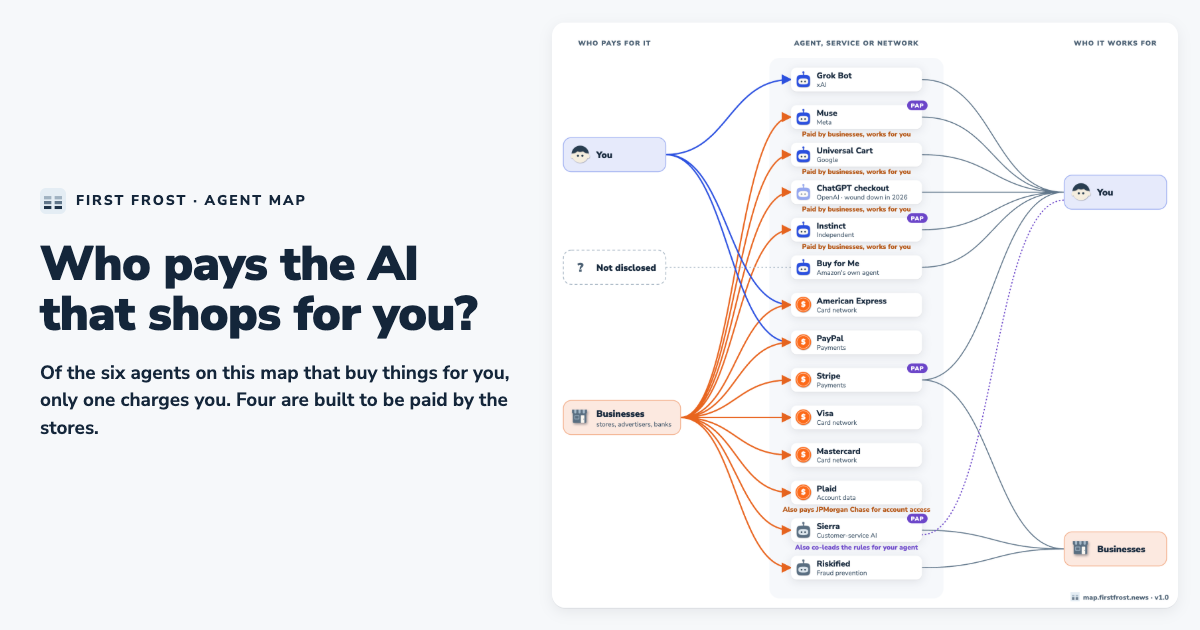
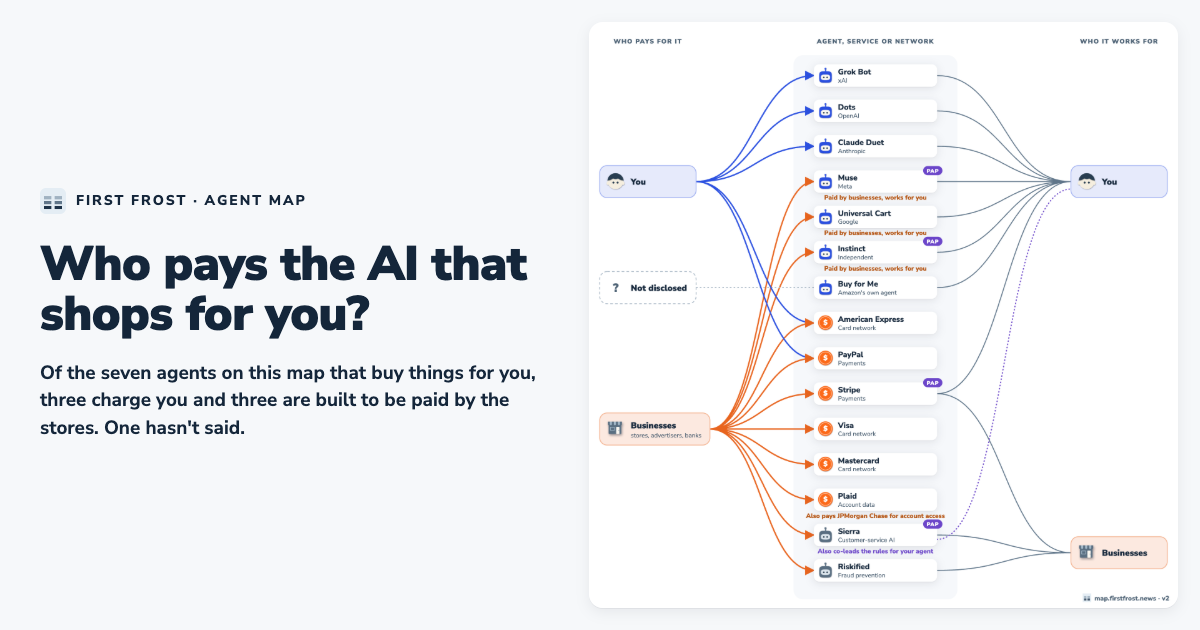
Agent map v2.0: add OpenAI's Dots and Claude Duet; ChatGPT checkout now sits under Dots as history

diff --git a/index.html b/index.html
@@ -3,23 +3,23 @@
 <head>
 <meta charset="utf-8">
 <meta name="viewport" content="width=device-width, initial-scale=1">
-<title>Who pays AI shopping agents? Muse, Grok and 4 more, mapped</title>
-<meta name="description" content="Only one of six AI shopping agents charges you: xAI's Grok Bot. Meta's Muse and three others are built to be paid by stores. Every line sourced.">
+<title>Who pays AI shopping agents? Muse, Dots, Grok and 4 more, mapped</title>
+<meta name="description" content="Three of seven AI shopping agents charge you: Grok Bot, OpenAI's Dots and Claude Duet. Meta's Muse and two others are built to be paid by stores. Every line sourced.">
 <meta property="og:type" content="website">
 <meta property="og:site_name" content="First Frost">
 <meta property="og:url" content="https://map.firstfrost.news/">
 <meta property="og:title" content="Who pays the AI that shops for you?">
-<meta property="og:description" content="Only one of six AI shopping agents charges you: xAI's Grok Bot. Meta's Muse and three others are built to be paid by stores. Every line sourced.">
+<meta property="og:description" content="Three of seven AI shopping agents charge you: Grok Bot, OpenAI's Dots and Claude Duet. Meta's Muse and two others are built to be paid by stores. Every line sourced.">
 <meta property="og:image" content="https://map.firstfrost.news/assets/og-card.png">
 <meta property="og:image:width" content="1200">
 <meta property="og:image:height" content="630">
-<meta property="og:image:alt" content="A map of six AI shopping agents and who pays each one: you, or the businesses they sell to.">
+<meta property="og:image:alt" content="A map of seven AI shopping agents and who pays each one: you, or the businesses they sell to.">
 <meta name="twitter:card" content="summary_large_image">
 <meta name="twitter:site" content="@firstfrostnews">
 <meta name="twitter:title" content="Who pays the AI that shops for you?">
-<meta name="twitter:description" content="Only one of six AI shopping agents charges you: xAI's Grok Bot. Meta's Muse and three others are built to be paid by stores. Every line sourced.">
+<meta name="twitter:description" content="Three of seven AI shopping agents charge you: Grok Bot, OpenAI's Dots and Claude Duet. Meta's Muse and two others are built to be paid by stores. Every line sourced.">
 <meta name="twitter:image" content="https://map.firstfrost.news/assets/og-card.png">
-<meta name="twitter:image:alt" content="A map of six AI shopping agents and who pays each one: you, or the businesses they sell to.">
+<meta name="twitter:image:alt" content="A map of seven AI shopping agents and who pays each one: you, or the businesses they sell to.">
 <link rel="icon" type="image/png" sizes="32x32" href="assets/mark-32.png">
 <link rel="icon" type="image/png" sizes="16x16" href="assets/mark-16.png">
 <link rel="apple-touch-icon" sizes="180x180" href="assets/mark-180.png">
@@ -293,7 +293,7 @@
 
   <section class="hero">
     <h1>Who pays the AI that shops for you?</h1>
-    <p class="claim">Of the six agents on this map that buy things for you, only one charges you. Four are built to be paid by the stores.</p>
+    <p class="claim">Of the seven agents on this map that buy things for you, three charge you and three are built to be paid by the stores. One hasn't said.</p>
     <p>Every line is a company's own words or a news report, quoted and linked. Five ways to draw the same facts. Pick any name to see the sentence behind it.</p>
   </section>
 
@@ -330,7 +330,7 @@
 <script>
 const ICON = { agent: 'assets/cast/agent.png', service: 'assets/cast/bot.png', rail: 'assets/cast/coin.png', door: 'assets/cast/door.png', store: 'assets/cast/store.png', platform: 'assets/cast/platform.png', bank: 'assets/cast/bank.png', you: 'assets/cast/person.png' };
 const iconOf = (e) => ICON[e.type === 'door' ? e.kind || 'door' : e.type];
-const ORDER = ['paid_by', 'terms_liability', 'partners_with', 'blocks', 'builds_own_agent', 'sells_detection', 'bot_contradicts_policy', 'status'];
+const ORDER = ['paid_by', 'terms_liability', 'partners_with', 'blocks', 'builds_own_agent', 'sells_detection', 'bot_contradicts_policy', 'status', 'before'];
 const KIND = { first_hand: "Company's own words", report: 'Press report', own_test: 'Our own test' };
 const SIDE = { businesses: 'businesses', you: 'you', both: 'both sides' };
 const PILL = { businesses: '<span class="pill biz">Businesses</span>', you: '<span class="pill you">You</span>', both: '<span class="pill both">Both</span>' };
@@ -555,9 +555,9 @@ function drawTurf() {
   txt(s, 616, 106, 'it names', 'regionsub', 'start');
   txt(s, 416, 72, 'IN BOTH', 'regionlabel', 'start');
   txt(s, 416, 90, 'Signed with both', 'regionsub', 'start');
-  region(s, 572, 368, 218, 108, 'ended', 'OPENAI', 'Checkout ended in 2026');
-  region(s, 16, 368, 344, 108, 'plain', 'NO CAMP YET', 'No signed deals we could find');
-  region(s, 376, 368, 180, 108, 'plain', 'NO DEALS YET', 'With any outside agent');
+  region(s, 16, 368, 432, 108, 'plain', 'NO CAMP YET', 'No signed deals we could find');
+  region(s, 464, 368, 136, 108, 'plain', 'NO DEALS YET', 'With outside agents');
+  region(s, 616, 368, 174, 108, 'camp', 'ANTHROPIC', 'Pays with Stripe, Shopify');
   region(s, 16, 492, 774, 176, 'plain', 'SOLD TO BUSINESSES · PAYMENTS AND DATA');
   region(s, 812, 44, 272, 230, 'wall');
   txt(s, 948, 76, 'WALL', 'regionlabel');
@@ -571,14 +571,14 @@ function drawTurf() {
     muse: [40, 122], shopify: [40, 210], bestbuy: [40, 262], gap: [40, 314], expedia: [222, 210], instacart: [222, 262], ticketmaster: [222, 314],
     walmart: [416, 210], wayfair: [416, 262], sephora: [416, 314],
     gcart: [616, 150], target: [616, 210],
-    chatgpt: [590, 442],
-    grok: [40, 442], instinct: [196, 442],
-    delta: [396, 442],
+    duet: [632, 442],
+    grok: [40, 442], dots: [176, 442], instinct: [290, 442],
+    delta: [480, 442],
     sierra: [36, 566], riskified: [226, 566], stripe: [416, 566], paypal: [606, 566],
     visa: [36, 622], mastercard: [226, 622], amex: [416, 622], plaid: [606, 622],
     amazon: [836, 150], buyforme: [836, 214], jpm: [836, 400],
   };
-  const opts = { chatgpt: { sub: 'OpenAI', faded: true }, buyforme: { sub: "Amazon's own agent" } };
+  const opts = { buyforme: { sub: "Amazon's own agent" } };
   Object.entries(P).forEach(([id, [x, y]]) => chip(nodeLayer, id, x, y, opts[id] || {}));
   // camps and walls carry this view at rest; a name's lines show only when you pick it
   drawEdges(edgeLayer, 'curve', () => true, 'curve');
@@ -608,7 +608,7 @@ function box(layer, id, x, y, cls, icon, label, sub) {
   AT[id] = { x, y, w };
 }
 function drawMoney() {
-  const rows = ['grok', 'muse', 'gcart', 'chatgpt', 'instinct', 'buyforme', 'amex', 'paypal', 'stripe', 'visa', 'mastercard', 'plaid', 'sierra', 'riskified'];
+  const rows = ['grok', 'dots', 'duet', 'muse', 'gcart', 'instinct', 'buyforme', 'amex', 'paypal', 'stripe', 'visa', 'mastercard', 'plaid', 'sierra', 'riskified'];
   const step = 66, H = 100 + (rows.length - 1) * step + 70;
   const s = newSvg(1100, H, 'Follow the money: who pays for each one, and who it works for');
   txt(s, 110, 40, 'WHO PAYS FOR IT', 'colhead');
@@ -616,16 +616,16 @@ function drawMoney() {
   txt(s, 990, 40, 'WHO IT WORKS FOR', 'colhead');
   const bandLayer = el('g', {}, s), edgeLayer = el('g', {}, s), nodeLayer = el('g', {}, s);
   el('rect', { x: 382, y: 62, width: 306, height: (rows.length - 1) * step + 92, rx: 18, class: 'lane' }, bandLayer);
-  box(nodeLayer, 'pay-you', 20, 100 + 2 * step, 'you', ICON.you, 'You');
-  box(nodeLayer, 'pay-none', 20, 100 + 5 * step, 'none', null, 'Not disclosed');
-  box(nodeLayer, 'pay-biz', 20, 100 + 9 * step, 'biz', ICON.store, 'Businesses', 'stores, advertisers, banks');
+  box(nodeLayer, 'pay-you', 20, 100 + 3 * step, 'you', ICON.you, 'You');
+  box(nodeLayer, 'pay-none', 20, 100 + 6 * step, 'none', null, 'Not disclosed');
+  box(nodeLayer, 'pay-biz', 20, 100 + 10 * step, 'biz', ICON.store, 'Businesses', 'stores, advertisers, banks');
   box(nodeLayer, 'for-you', 900, 100 + 3 * step, 'you', ICON.you, 'You');
-  box(nodeLayer, 'for-biz', 900, 100 + 12.5 * step, 'biz', ICON.store, 'Businesses');
+  box(nodeLayer, 'for-biz', 900, 100 + 13.5 * step, 'biz', ICON.store, 'Businesses');
 
   const PAYERS = { you: ['pay-you'], businesses: ['pay-biz'], both: ['pay-you', 'pay-biz'] };
   rows.forEach((id, i) => {
     const y = 100 + i * step, e = BY[id], side = POS[id] && POS[id].side;
-    const g = chip(nodeLayer, id, 420, y, { w: 230, sub: id === 'buyforme' ? "Amazon's own agent" : subFor(id), faded: id === 'chatgpt' });
+    const g = chip(nodeLayer, id, 420, y, { w: 230, sub: id === 'buyforme' ? "Amazon's own agent" : subFor(id) });
     if (side) PAYERS[side].forEach((payer) => edge(edgeLayer, payer, id, payer === 'pay-you' ? 'money you' : 'money', route(payer, id)));
     else edge(edgeLayer, 'pay-none', id, 'unknown', route('pay-none', id));
     const serves = e.type === 'agent' ? ['for-you'] : e.type === 'service' ? ['for-biz'] : id === 'stripe' ? ['for-you', 'for-biz'] : [];
